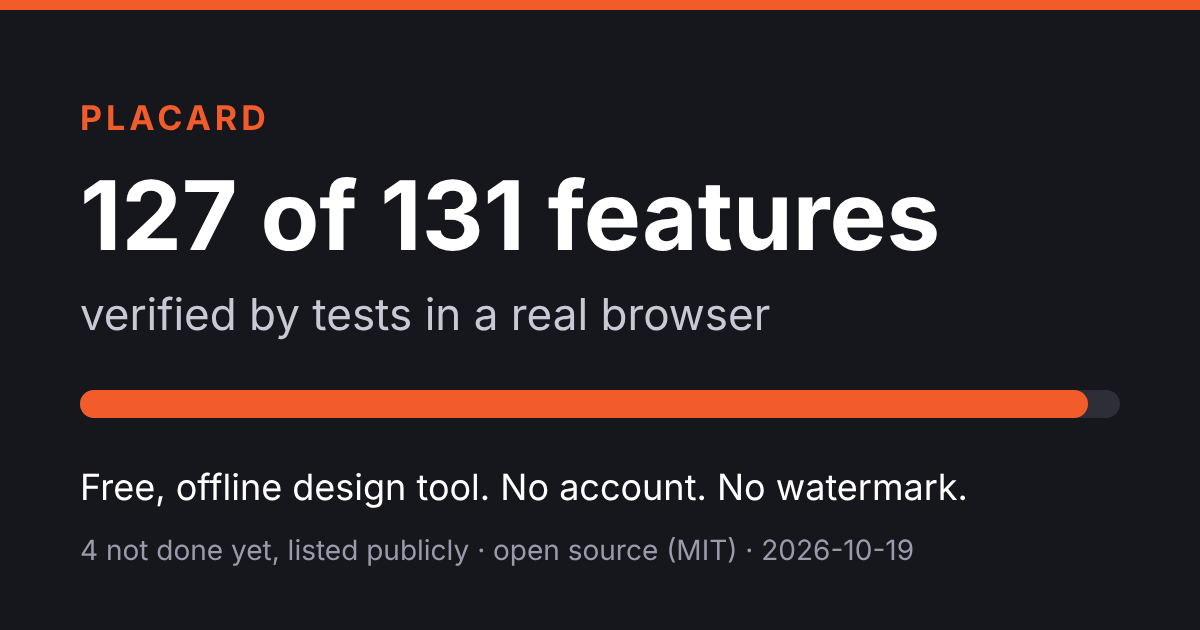
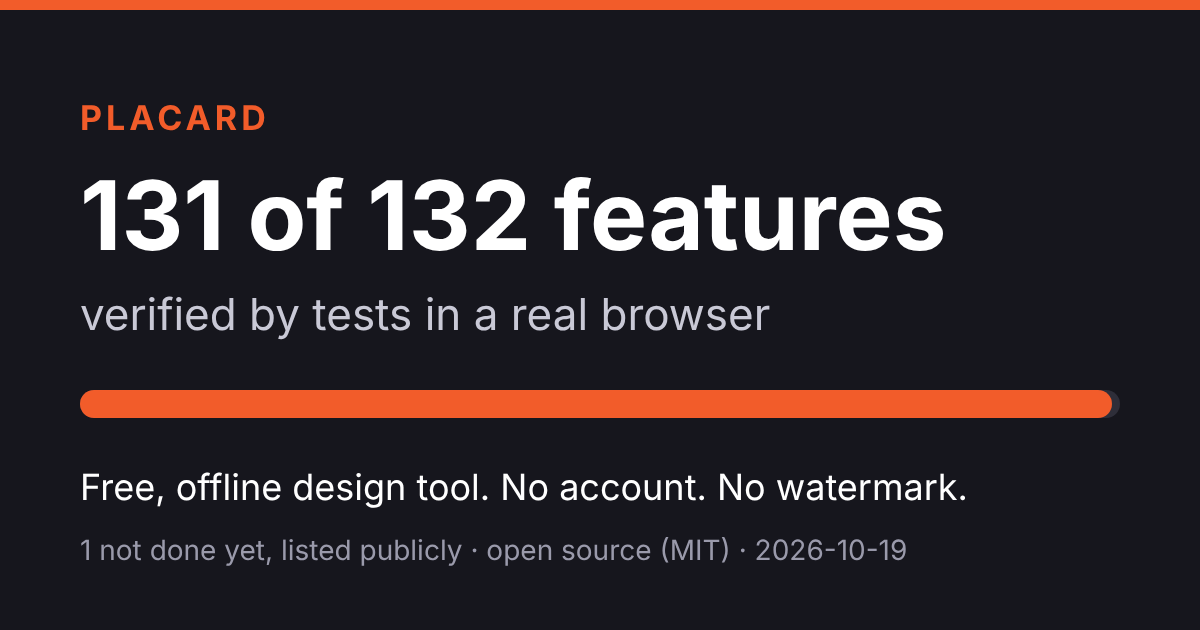
Remove a plain background, on your device; 131 of 132 verified
A 'Remove plain background' button for images: a flood fill from the
edges clears the most common edge color within a tolerance and softens
the border, so logos and product shots on white get a transparent
background. A white area inside the subject is kept. Pure function with
unit tests, plus a browser test that exports the result and checks the
corner is see-through and the middle is solid. One undo restores it.

This is a new feature (IMG-13), not a tick on IMG-11: cutting people out
of busy photos needs a machine-learning model and stays listed as not
done yet.

Scoreboard: 131 of 132 features, 100/100 browser tests, 49/49 unit
tests. Share card updated to match.

Changed region(s): [[0.0925, 0.2714, 0.8017, 0.4222], [0.0617, 0.8444, 0.7708, 0.9048], [0.8942, 0.6032, 0.925, 0.6635]]

diff --git a/src/model/bgremove.js b/src/model/bgremove.js
@@ -1,0 +1,99 @@
+// Removes a plain, single-color background from a picture: logos, product
+// shots on white, screenshots. Works on raw RGBA pixels, so it runs on your
+// device and can be tested without a browser. (Cutting people out of busy
+// photos needs a machine-learning model; that's a separate feature.)
+
+function dist(r1, g1, b1, r2, g2, b2) {
+  const dr = r1 - r2;
+  const dg = g1 - g2;
+  const db = b1 - b2;
+  return Math.sqrt(dr * dr + dg * dg + db * db) / 441.7; // 0..1
+}
+
+/** The most common color along the edges, which is the background in plain shots. */
+export function edgeColor(data, w, h) {
+  const counts = new Map();
+  const add = (x, y) => {
+    const i = (y * w + x) * 4;
+    if (data[i + 3] < 128) return;
+    const key = ((data[i] >> 4) << 8) | ((data[i + 1] >> 4) << 4) | (data[i + 2] >> 4);
+    const c = counts.get(key) || { n: 0, r: 0, g: 0, b: 0 };
+    c.n++;
+    c.r += data[i];
+    c.g += data[i + 1];
+    c.b += data[i + 2];
+    counts.set(key, c);
+  };
+  for (let x = 0; x < w; x++) {
+    add(x, 0);
+    add(x, h - 1);
+  }
+  for (let y = 0; y < h; y++) {
+    add(0, y);
+    add(w - 1, y);
+  }
+  let best = null;
+  for (const c of counts.values()) if (!best || c.n > best.n) best = c;
+  if (!best) return null;
+  return [best.r / best.n, best.g / best.n, best.b / best.n];
+}
+
+/**
+ * Make the background transparent, in place. The background is everything
+ * connected to the edges that's within `tolerance` (0..1) of the edge color.
+ * Pixels just past the tolerance fade out, for smooth edges.
+ * Returns how many pixels were cleared.
+ */
+export function removePlainBackground(data, w, h, { tolerance = 0.12, soft = 0.08 } = {}) {
+  const bg = edgeColor(data, w, h);
+  if (!bg) return 0;
+  const [br, bgc, bb] = bg;
+  const seen = new Uint8Array(w * h);
+  const queue = new Int32Array(w * h);
+  let head = 0;
+  let tail = 0;
+  const near = (p) => {
+    const i = p * 4;
+    return data[i + 3] > 0 && dist(data[i], data[i + 1], data[i + 2], br, bgc, bb) <= tolerance;
+  };
+  const push = (p) => {
+    if (seen[p]) return;
+    seen[p] = 1;
+    if (near(p)) queue[tail++] = p;
+  };
+  for (let x = 0; x < w; x++) {
+    push(x);
+    push((h - 1) * w + x);
+  }
+  for (let y = 0; y < h; y++) {
+    push(y * w);
+    push(y * w + w - 1);
+  }
+  let cleared = 0;
+  while (head < tail) {
+    const p = queue[head++];
+    data[p * 4 + 3] = 0;
+    cleared++;
+    const x = p % w;
+    const y = (p / w) | 0;
+    if (x > 0) push(p - 1);
+    if (x < w - 1) push(p + 1);
+    if (y > 0) push(p - w);
+    if (y < h - 1) push(p + w);
+  }
+  // Soften the border: pixels touching the cleared area fade by how close they are to the background.
+  if (soft > 0) {
+    for (let p = 0; p < w * h; p++) {
+      const i = p * 4;
+      if (data[i + 3] === 0) continue;
+      const x = p % w;
+      const y = (p / w) | 0;
+      const touches = (x > 0 && data[i - 1] === 0) || (x < w - 1 && data[i + 7] === 0) ||
+        (y > 0 && data[i - w * 4 + 3] === 0) || (y < h - 1 && data[i + w * 4 + 3] === 0);
+      if (!touches) continue;
+      const d = dist(data[i], data[i + 1], data[i + 2], br, bgc, bb);
+      if (d < tolerance + soft) data[i + 3] = Math.round(data[i + 3] * Math.min(1, (d - tolerance) / soft + 0.15));
+    }
+  }
+  return cleared;
+}

diff --git a/src/app/editor.js b/src/app/editor.js
@@ -11,6 +11,7 @@ import { fitHeight } from '../model/text-layout.js';
 import { curveGeometry } from '../model/render.js';
 import { unionBounds } from '../model/geometry.js';
 import { measure } from './fonts.js';
+import { removePlainBackground } from '../model/bgremove.js';
 import { readFileAsDataUrl, loadImage, toast, debounce } from './ui.js';
 import * as store from './store.js';
 
@@ -244,6 +245,28 @@ export class Editor {
       const pic = upload.width / upload.height;
       el.crop = pic > frame ? { x: (1 - frame / pic) / 2, y: 0, w: frame / pic, h: 1 } : { x: 0, y: (1 - pic / frame) / 2, w: 1, h: pic / frame };
     });
+  }
+
+  /** Make a plain background see-through. Returns how much of the picture was cleared (0..1). */
+  async removeBackground(tolerance = 0.12) {
+    const el = this.single;
+    if (!el || el.type !== 'image') return 0;
+    const asset = this.doc.assets[el.assetId];
+    const img = await loadImage(asset.dataUrl);
+    const canvas = document.createElement('canvas');
+    canvas.width = img.naturalWidth;
+    canvas.height = img.naturalHeight;
+    const g = canvas.getContext('2d', { willReadFrequently: true });
+    g.drawImage(img, 0, 0);
+    const pixels = g.getImageData(0, 0, canvas.width, canvas.height);
+    const cleared = removePlainBackground(pixels.data, canvas.width, canvas.height, { tolerance });
+    if (!cleared) return 0;
+    g.putImageData(pixels, 0, 0);
+    const dataUrl = canvas.toDataURL('image/png');
+    this.change(() => {
+      el.assetId = addAsset(this.doc, { mime: 'image/png', dataUrl, width: canvas.width, height: canvas.height, name: `${asset.name || 'image'} (no background)` });
+    });
+    return cleared / (canvas.width * canvas.height);
   }
 
   setImageAsBackground() {

diff --git a/test/e2e/graphics.test.js b/test/e2e/graphics.test.js
@@ -438,3 +438,29 @@ test('[ELM-06] tables', async () => {
   assert.match(svg, /font-family:"Inter";font-weight:700/);
   await context.close();
 });
+
+test('[IMG-13] remove a plain background on your device', async () => {
+  const { page, context, img } = await withImage();
+  await page.click('[data-testid="remove-bg"]');
+  await page.waitForFunction((a) => window.placard.editor.single?.assetId !== a, img.assetId);
+  // Export with a transparent page: the blue surround is gone, the white center stays.
+  const png = await page.evaluate(async () => {
+    const { editor, export: ex } = window.placard;
+    const doc = structuredClone(editor.doc);
+    const el = doc.pages[0].elements[0];
+    Object.assign(el, { x: 0, y: 0, w: doc.width, h: doc.width / 2 });
+    const blob = await ex.exportImage(doc, 0, { transparent: true, scale: 0.5 });
+    const bmp = await createImageBitmap(blob);
+    const cv = document.createElement('canvas');
+    cv.width = bmp.width;
+    cv.height = bmp.height;
+    const g = cv.getContext('2d');
+    g.drawImage(bmp, 0, 0);
+    const a = (x, y) => g.getImageData(x, y, 1, 1).data[3];
+    return { corner: a(5, 5), center: a(cv.width / 2, cv.width / 4) };
+  });
+  assert.deepEqual(png, { corner: 0, center: 255 });
+  await page.keyboard.press(`${mod}+z`);
+  assert.equal((await last(page)).assetId, img.assetId, 'one undo brings the original back');
+  await context.close();
+});

diff --git a/src/app/inspector.js b/src/app/inspector.js
@@ -353,6 +353,18 @@ export class Inspector {
           slider({ label: 'Zoom', value: Math.round(cropZoom(el, asset.width, asset.height) * 100), min: 100, max: 400, unit: '%', testid: 'crop-zoom', onChange: (v, l) => {
             ed.change(() => this.canvas.setCropZoom(el, v / 100), { key: l ? `cropzoom:${el.id}` : null });
           } })) : null,
+        h('button', { type: 'button', class: 'btn small wide', 'data-testid': 'remove-bg', onClick: async (e) => {
+          const btn = e.currentTarget;
+          btn.disabled = true;
+          try {
+            const share = await ed.removeBackground();
+            toast(share > 0.01 ? 'Background removed. Undo if it took too much.' : 'No plain background found around the edges.');
+          } catch {
+            toast('That image could not be processed.', 'error');
+          } finally {
+            btn.disabled = false;
+          }
+        } }, icon('crop'), 'Remove plain background'),
         h('button', { type: 'button', class: 'btn small wide', 'data-testid': 'image-to-bg', onClick: () => ed.setImageAsBackground() }, icon('background'), 'Use as page background')),
       section('Adjust',
         segmented({ label: 'Filter', value: presetName, testid: 'filter-presets', onChange: (name) => this.up({ filters: { ...FILTER_PRESETS[name] } }), options: [

diff --git a/test/unit/model.test.js b/test/unit/model.test.js
@@ -380,3 +380,25 @@ test('[ELM-05] [ELM-06] chart and table data parse from plain text', async () =>
   assert.deepEqual(parseTable('a, b, c\nd\n\ne\tf'), [['a', 'b', 'c'], ['d', '', ''], ['e', 'f', '']]);
   assert.equal(tableText([['x', 'y']]), 'x, y');
 });
+
+test('[IMG-13] plain backgrounds are removed; the subject and enclosed areas stay', async () => {
+  const { removePlainBackground, edgeColor } = await import('../../src/model/bgremove.js');
+  const w = 20;
+  const h = 20;
+  const data = new Uint8ClampedArray(w * h * 4);
+  for (let p = 0; p < w * h; p++) {
+    const x = p % w;
+    const y = (p / w) | 0;
+    const ring = x >= 5 && x < 15 && y >= 5 && y < 15 && !(x >= 8 && x < 12 && y >= 8 && y < 12);
+    const c = ring ? [200, 20, 20] : [250, 250, 248];
+    data.set([...c, 255], p * 4);
+  }
+  assert.deepEqual(edgeColor(data, w, h).map(Math.round), [250, 250, 248]);
+  const cleared = removePlainBackground(data, w, h);
+  const alpha = (x, y) => data[(y * w + x) * 4 + 3];
+  assert.equal(alpha(0, 0), 0);
+  assert.equal(alpha(19, 10), 0);
+  assert.equal(alpha(6, 6), 255, 'the subject stays');
+  assert.equal(alpha(10, 10), 255, 'a white area inside the subject is not background');
+  assert.equal(cleared, 20 * 20 - 10 * 10);
+});

diff --git a/README.md b/README.md
@@ -32,7 +32,8 @@ All of it. Including the things other tools put behind a subscription:
 - **Transparent PNGs**, and PNGs at 2x and 3x size
 - **Resize a design** to another format in one click (post → story → slides)
 - **A brand kit**: your colors and fonts, applied in one click
-- **Multi-page PDF**, SVG with fonts inside, JPG, a zip of pages, print
+- **Multi-page PDF with selectable text**, SVG with fonts inside, JPG, a zip of pages, print
+- **Charts, tables, QR codes**, and removing plain backgrounds, all on your device
 - **No watermark, ever**, and no account
 
 ## The scoreboard
@@ -42,7 +43,7 @@ end-to-end test in a real browser** or listed as **not done yet**. This table
 is generated from the test run, never written by hand.
 
 <!-- scoreboard:start -->
-**127 of 131 features verified** by browser tests · 4 not done yet · [full scoreboard](SCOREBOARD.md)
+**131 of 132 features verified** by browser tests · 1 not done yet · [full scoreboard](SCOREBOARD.md)
 
 | Area | Verified |
 | --- | --- |
@@ -53,21 +54,21 @@ is generated from the test run, never written by hand.
 | Editing | 18 / 18 |
 | Text | 20 / 20 |
 | Shapes and lines | 8 / 8 |
-| Images | 11 / 12 |
-| Graphics | 4 / 6 |
+| Images | 12 / 13 |
+| Graphics | 6 / 6 |
 | Color | 4 / 4 |
 | Brand kit | 3 / 3 |
 | Templates | 5 / 5 |
-| Export | 11 / 12 |
+| Export | 12 / 12 |
 | The app | 6 / 6 |
 
-Not done yet: remove an image's background on your device; charts from your numbers; tables; pdf with real, selectable text.
+Not done yet: remove an image's background on your device.
 <!-- scoreboard:end -->
 
 ## Use it
 
 - **In your browser:** [manoharys.github.io/paperwall](https://manoharys.github.io/paperwall/). Install it from the address bar to get an app that works offline.
-- **As one file:** download `placard.html` from the [latest release](https://github.com/manoharys/paperwall/releases/latest) and double-click it. That's the whole app (about 900 KB, fonts included).
+- **As one file:** download `placard.html` from the [latest release](https://github.com/manoharys/paperwall/releases/latest) and double-click it. That's the whole app (under 1 MB, fonts included).
 - **From source:**
 
   ```bash

diff --git a/SCOREBOARD.md b/SCOREBOARD.md
@@ -2,9 +2,9 @@
 
 Generated by `npm run scoreboard` on 2026-10-19. Do not edit by hand.
 
-**127 of 131 features verified** by end-to-end tests in a real browser, 4 not done yet.
+**131 of 132 features verified** by end-to-end tests in a real browser, 1 not done yet.
 
-96/96 browser tests and 45/45 unit tests pass.
+100/100 browser tests and 49/49 unit tests pass.
 A feature counts as verified only when a browser test named with its id passes against the built app.
 
 ## Designs
@@ -141,6 +141,7 @@ A feature counts as verified only when a browser test named with its id passes a
 | IMG-10 | Use an image as the page background | ✅ verified |
 | IMG-11 | Remove an image's background on your device | ⬜ not yet |
 | IMG-12 | Drop shadow on images and shapes | ✅ verified |
+| IMG-13 | Remove a plain, single-color background (logos, product shots) on your device | ✅ verified |
 
 ## Graphics
 
@@ -150,8 +151,8 @@ A feature counts as verified only when a browser test named with its id passes a
 | ELM-02 | Search icons and shapes | ✅ verified |
 | ELM-03 | Original decorative stickers | ✅ verified |
 | ELM-04 | QR code generator | ✅ verified |
-| ELM-05 | Charts from your numbers | ⬜ not yet |
-| ELM-06 | Tables | ⬜ not yet |
+| ELM-05 | Charts from your numbers | ✅ verified |
+| ELM-06 | Tables | ✅ verified |
 
 ## Color
 
@@ -195,7 +196,7 @@ A feature counts as verified only when a browser test named with its id passes a
 | EXP-09 | No watermark, ever | ✅ verified |
 | EXP-10 | Exported SVG carries its fonts, so it looks the same anywhere | ✅ verified |
 | EXP-11 | Copy the design to the clipboard as an image | ✅ verified |
-| EXP-12 | PDF with real, selectable text | ⬜ not yet |
+| EXP-12 | PDF with real, selectable and searchable text | ✅ verified |
 
 ## The app
 
